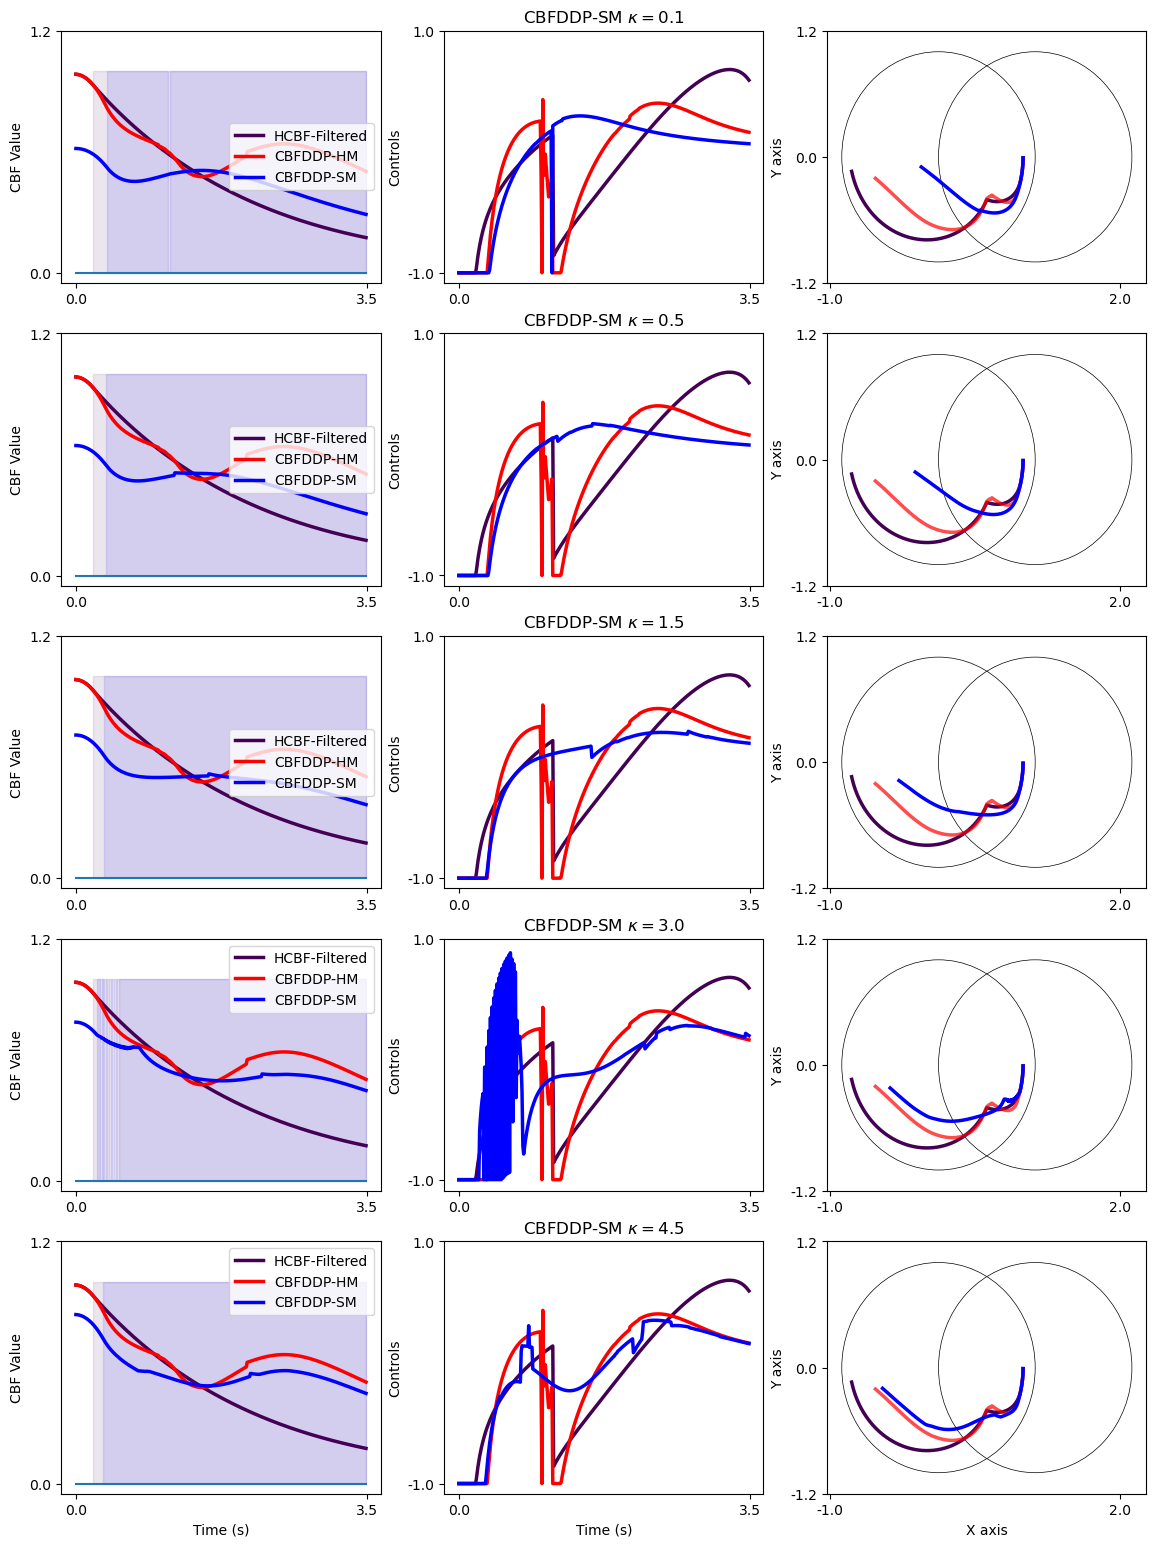
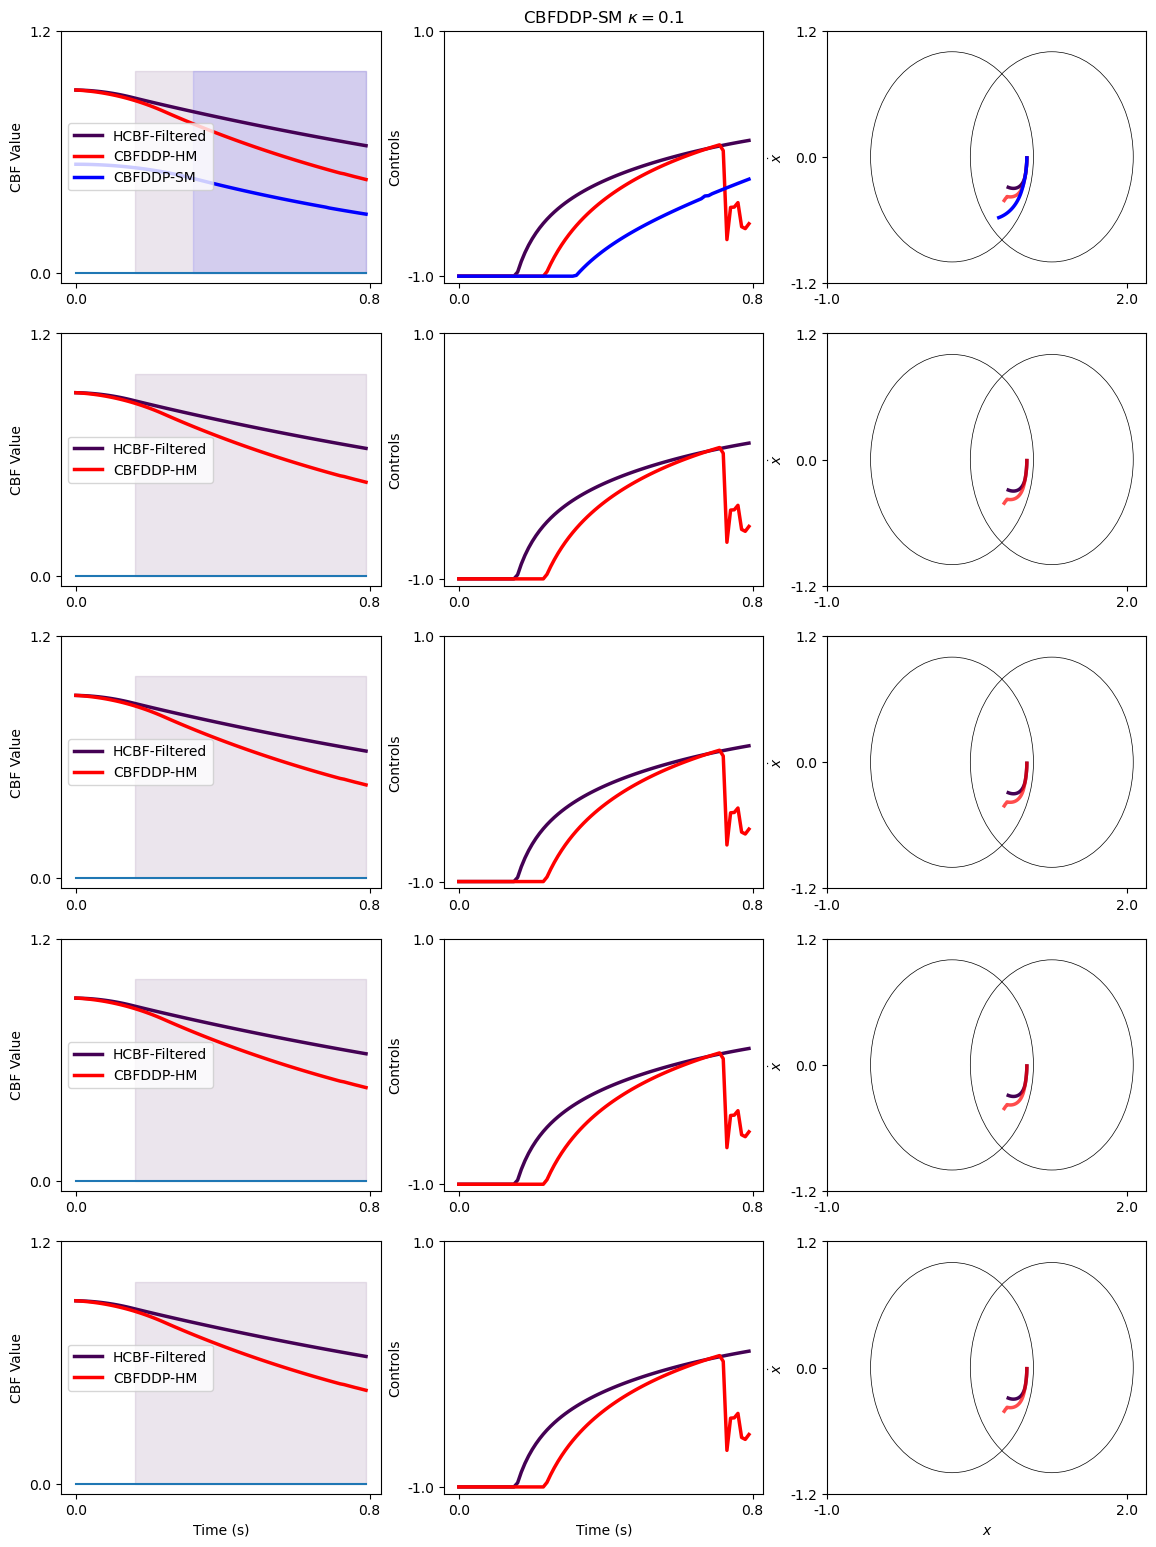
updating all files

diff --git a/evaluation.py b/evaluation.py
@@ -176,18 +176,18 @@ for row_number in range(5):
     axes[row_number, 1].tick_params(labelsize=ftsize)
     #axes[row_number, 1].grid()
 
-    ellipse = Ellipse(xy=cbf.c, width=2*cbf.beta, height=2*cbf.beta, 
+    ellipse = Ellipse(xy=cbf.c, width=2*cbf.beta/np.sqrt(cbf.P[0, 0]), height=2*cbf.beta/np.sqrt(cbf.P[1, 1]), 
                             edgecolor='k', fc='None', lw=0.5)
     axes[row_number, 2].add_patch(ellipse)
-    ellipse_pair = Ellipse(xy=cbf.c + cbf.shift, width=2*cbf.beta, height=2*cbf.beta, 
+    ellipse_pair = Ellipse(xy=cbf.c + cbf.shift, width=2*cbf.beta/np.sqrt(cbf.P[0, 0]), height=2*cbf.beta/np.sqrt(cbf.P[1, 1]), 
                             edgecolor='k', fc='None', lw=0.5)
     axes[row_number, 2].add_patch(ellipse_pair)
     xticks = np.round(np.linspace(-1, 2, 2), 2)
     axes[row_number, 2].set_xticks(ticks=xticks, labels=xticks)
     yticks = np.round(np.linspace(-1.2, 1.2, 3), 2)
     if row_number==4:
-        axes[row_number, 2].set_xlabel('X axis', fontsize=ftsize)
-    axes[row_number, 2].set_ylabel('Y axis', fontsize=ftsize)
+        axes[row_number, 2].set_xlabel('$State x$', fontsize=ftsize)
+    axes[row_number, 2].set_ylabel('$State \dot{x}$', fontsize=ftsize)
     axes[row_number, 2].tick_params(labelsize=ftsize)
     axes[row_number, 2].set_yticks(ticks=yticks, labels=yticks)
 #axes[2].grid()

diff --git a/cbfs_and_costs.py b/cbfs_and_costs.py
@@ -81,9 +81,9 @@ class MultiCBF:
         self.shift = np.array([[-1.0], [0.0]])
         self.beta = 1.0
         self.gamma = 0.5
-        self.P = np.diag([1.0, 1.0])
+        self.P = np.diag([1.5, 1.0])
         self.c = np.zeros((2, 1))
-        self.c[0 , 0] = 1.125
+        self.c[0 , 0] = 1.25
         self.kappa = kappa
         self.use_smoothening = use_smoothening
 
